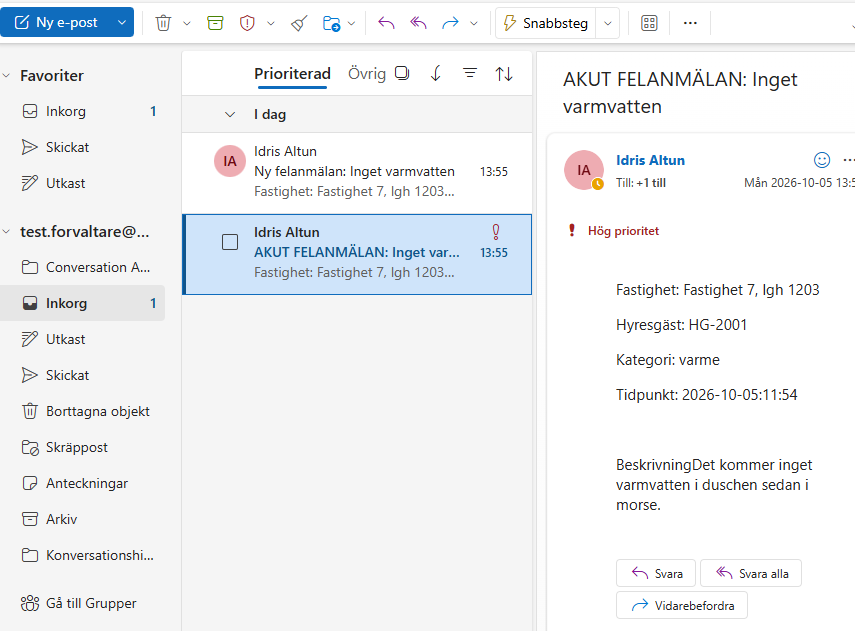
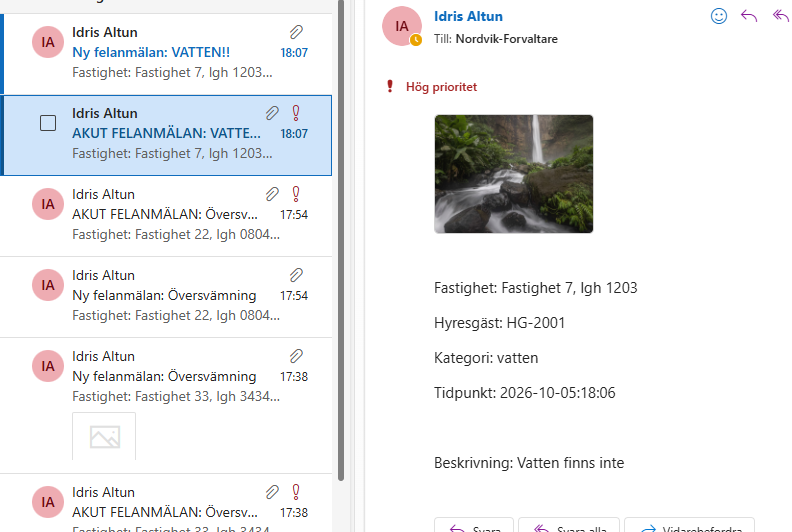
v41: bild bifogas i förvaltarnas mejl, svensk tid i anmälan

diff --git a/v41/arenden/function_app.py b/v41/arenden/function_app.py
@@ -1,9 +1,11 @@
 import azure.functions as func
+import base64
 import json
 import logging
 import os
 import uuid
-from datetime import datetime, timezone
+from datetime import datetime
+from zoneinfo import ZoneInfo
 
 import requests
 from azure.identity import DefaultAzureCredential
@@ -26,7 +28,7 @@ def arenden(req: func.HttpRequest) -> func.HttpResponse:
     if not rubrik or not beskrivning or not hyresgast:
         return func.HttpResponse("Rubrik, beskrivning och hyresgästnummer måste fyllas i.", status_code=400)
 
-    nu = datetime.now(timezone.utc)
+    nu = datetime.now(ZoneInfo("Europe/Stockholm"))
     tidpunkt = nu.strftime("%Y-%m-%d:%H:%M")
     unikt_id = f"fa-{nu.strftime('%Y%m%d-%H%M%S')}-{uuid.uuid4().hex[:6]}"
     akut = kategori in AKUTA_KATEGORIER
@@ -51,16 +53,20 @@ def arenden(req: func.HttpRequest) -> func.HttpResponse:
     )
     container = blob_service.get_container_client("anmalningar")
 
-    container.upload_blob(f"{unikt_id}/anmalan.json", json.dumps(anmalan, ensure_ascii=False, indent=2))
-
+    # Bilagor i Outlooks format, så flödet kan bifoga listan rakt av i mejlen.
+    bilagor = []
     if bild is not None and bild.filename:
+        bilddata = bild.stream.read()
         anmalan["bild"] = bild.filename
-        container.upload_blob(f"{unikt_id}/{bild.filename}", bild.stream.read())
+        container.upload_blob(f"{unikt_id}/{bild.filename}", bilddata)
+        bilagor.append({"Name": bild.filename, "ContentBytes": base64.b64encode(bilddata).decode()})
+
+    container.upload_blob(f"{unikt_id}/anmalan.json", json.dumps(anmalan, ensure_ascii=False, indent=2))
 
     flow_url = os.environ.get("FLOW_URL")
     if flow_url:
         try:
-            requests.post(flow_url, json=anmalan, timeout=10)
+            requests.post(flow_url, json={**anmalan, "bilagor": bilagor}, timeout=10)
         except requests.RequestException as fel:
             logging.warning("Kunde inte nå Power Automate-flödet: %s", fel)
 

diff --git a/v41/README.md b/v41/README.md
@@ -95,7 +95,7 @@ az functionapp config access-restriction add --resource-group rg-nordvik --name 
 
 ### Koden i `func-nordvik-arenden`
 
-Koden ligger i [`arenden/function_app.py`](arenden/function_app.py). Den tar emot rubrik, beskrivning, kategori, fastighet och hyresgästnummer, bygger ett eget id (`fa-åååmmdd-ttmmss-slump`, eget prefix), sparar en JSON-fil plus en eventuell bild i containern `anmalningar`, och postar vidare till Power Automate när flödet finns. Tidpunkten sparas läsbart som `2026-10-05:09:19` istället för en svårläst ISO-tidsstämpel.
+Koden ligger i [`arenden/function_app.py`](arenden/function_app.py). Den tar emot rubrik, beskrivning, kategori, fastighet och hyresgästnummer, bygger ett eget id (`fa-åååmmdd-ttmmss-slump`, eget prefix), sparar en JSON-fil plus en eventuell bild i containern `anmalningar`, och postar vidare till Power Automate när flödet finns. Tidpunkten sparas läsbart och i svensk tid (`Europe/Stockholm`), som `2026-10-05:09:19`, istället för en svårläst ISO-tidsstämpel i UTC.
 
 Testat med curl, samma sätt som tidigare veckor:
 
@@ -208,7 +208,6 @@ Listan `Felanmalningar` skapades på `Nordvik-Forvaltare`s SharePoint-sajt (Team
 | Kategori | Val: varme, vatten, las, ovrigt |
 | Fastighet | Enkel textrad |
 | Hyresgast | Enkel textrad |
-| Bildlank | Hyperlänk |
 | Status | Val: ny, pagaende, klar |
 | Akut | Ja/Nej |
 | Tidpunkt | Enkel textrad |
@@ -243,11 +242,25 @@ sg-nordvik-forvaltare   Storage Blob Data Contributor
 
 ### Power Automate-flödet
 
-Flödet `Nordvik-felanmalan` triggas av en **HTTP-begäran** (anonym, "vem som helst med URL:en" — `func-nordvik-arenden` postar dit efter att anmälan sparats). Tre steg efter triggern:
+Flödet `Nordvik-felanmalan` triggas av en **HTTP-begäran** (anonym, "vem som helst med URL:en" — `func-nordvik-arenden` postar dit efter att anmälan sparats). Fyra steg efter triggern:
 
 1. **Skapa objekt** i `Felanmalningar`-listan, alla fält kopplade mot triggerns JSON.
-2. **Skicka ett e-postmeddelande (V2)** till `nordvik-forvaltare@Altun1980.onmicrosoft.com`, alltid.
-3. **Villkor:** om `akut` är sant, ett andra mejl till samma adress, markerat **Hög prioritet**, med ämnet "AKUT FELANMÄLAN: ...".
+2. **Välj** gör om bilagorna till filer som Outlook kan bifoga (se nedan).
+3. **Skicka ett e-postmeddelande (V2)** till `nordvik-forvaltare@Altun1980.onmicrosoft.com`, alltid, med bilden bifogad.
+4. **Villkor:** om `akut` är sant, ett andra mejl till samma adress, markerat **Hög prioritet**, med ämnet "AKUT FELANMÄLAN: ..." och samma bild.
+
+### Bilden i mejlet
+
+Lagringskontot är nätverkslåst, så Power Automate kan inte hämta bilden via en länk. `func-nordvik-arenden` skickar därför med själva bilden i anropet till flödet, base64-kodad, i en lista `bilagor` (tom om ingen bild bifogades). Bilden sparas fortfarande i lagringen som vanligt. Base64-datan läggs bara i anropet till flödet, inte i `anmalan.json`.
+
+Outlooks bilagefält vill ha en riktig fil, inte base64-text. Steget **Välj** avkodar därför varje bilaga innan mejlet skickas:
+
+```
+Name:         item()?['Name']
+ContentBytes: base64ToBinary(item()?['ContentBytes'])
+```
+
+Båda mejlen tar sina bilagor från `body('Välj')`. En tom lista ger ett mejl utan bilaga, så inget extra villkor behövs för anmälningar utan bild.
 
 Flödets URL sparas som app-settingen `FLOW_URL` på `func-nordvik-arenden`. Den skickas in som en säker parameter vid driftsättningen (se Delmoment 5), eftersom `&`-tecknen i adressen annars tolkas som kommandoavskiljare av PowerShell/cmd.
 
@@ -264,7 +277,7 @@ Posten dök upp i SharePoint-listan:
 Och två mejl kom fram till `Nordvik-Forvaltare`s inkorg, det vanliga och det akuta (med hög prioritet, utropstecknet i listvyn):
 
 ![Vanligt mejl](images/mejl-vanligt.png)
-![Akut mejl, hög prioritet](images/mejl-akut.png)
+![Akut mejl, hög prioritet, med bilden bifogad](images/mejl-akut.png)
 
 Flödets egen körningshistorik bekräftar samma sak, en lyckad körning på 3 sekunder:
 
